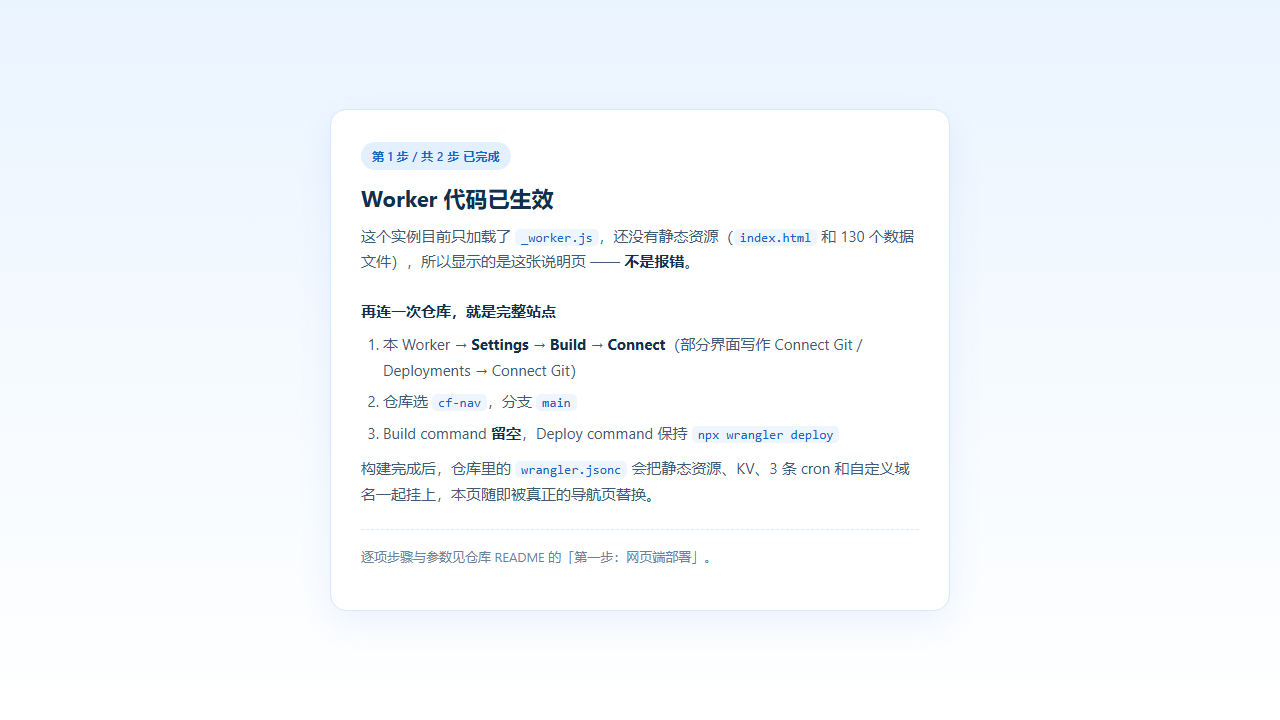
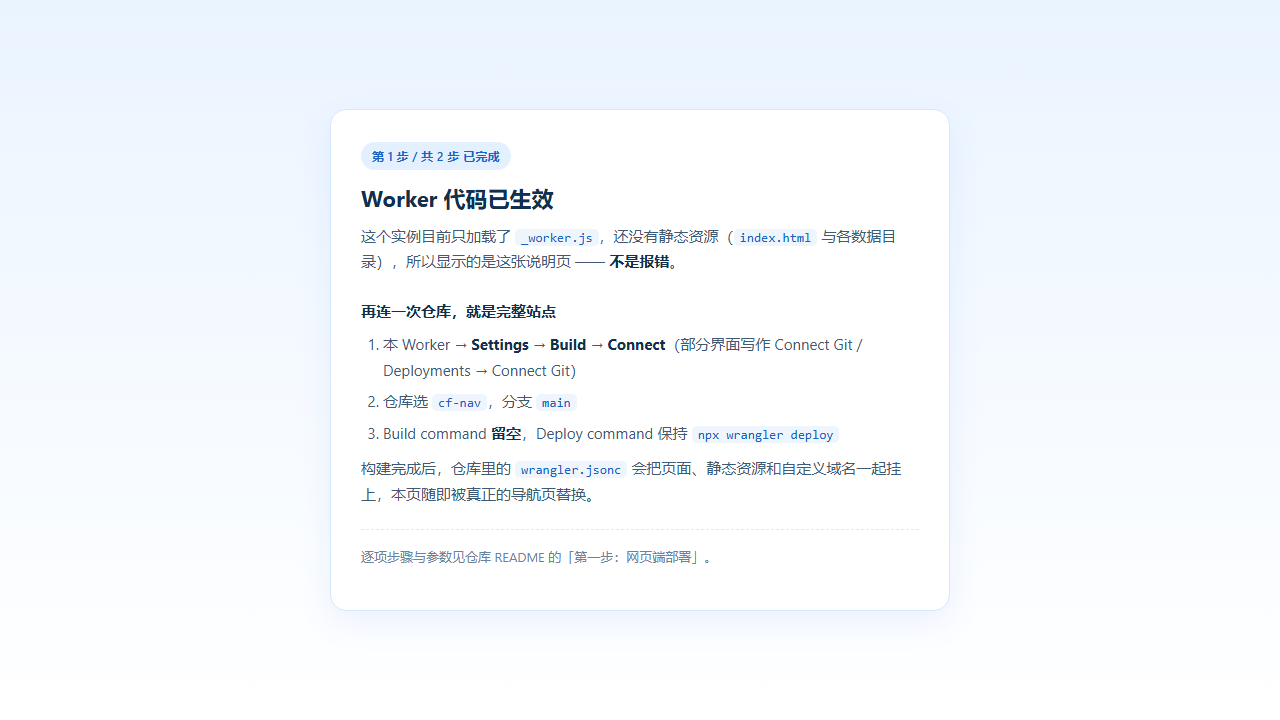
docs: 更新引导页截图与 1.3 措辞（不再提 KV/数据文件数量）

diff --git a/README.md b/README.md
@@ -77,7 +77,7 @@ https://cf-nav.<你的账号子域>.workers.dev
 
 ![只贴了 _worker.js、还没连仓库时打开的引导页](assets/worker-setup.png)
 
-这是**刻意设计**的：此时 Worker 只有代码，仓库里的 `index.html` 和 130 个数据文件还没上传，`env.ASSETS` 为空。`_worker.js` 检测到这种情况会返回引导页，而不是抛 500。
+这是**刻意设计**的：此时 Worker 只有代码，仓库里的 `index.html` 与各静态目录还没上传，`env.ASSETS` 为空。`_worker.js` 检测到这种情况会返回引导页，而不是抛 500。
 
 确认方式：响应头里带 `x-setup: assets-missing`。等 1.6 构建完成，这个头就消失了，页面变成真正的导航站。
 
